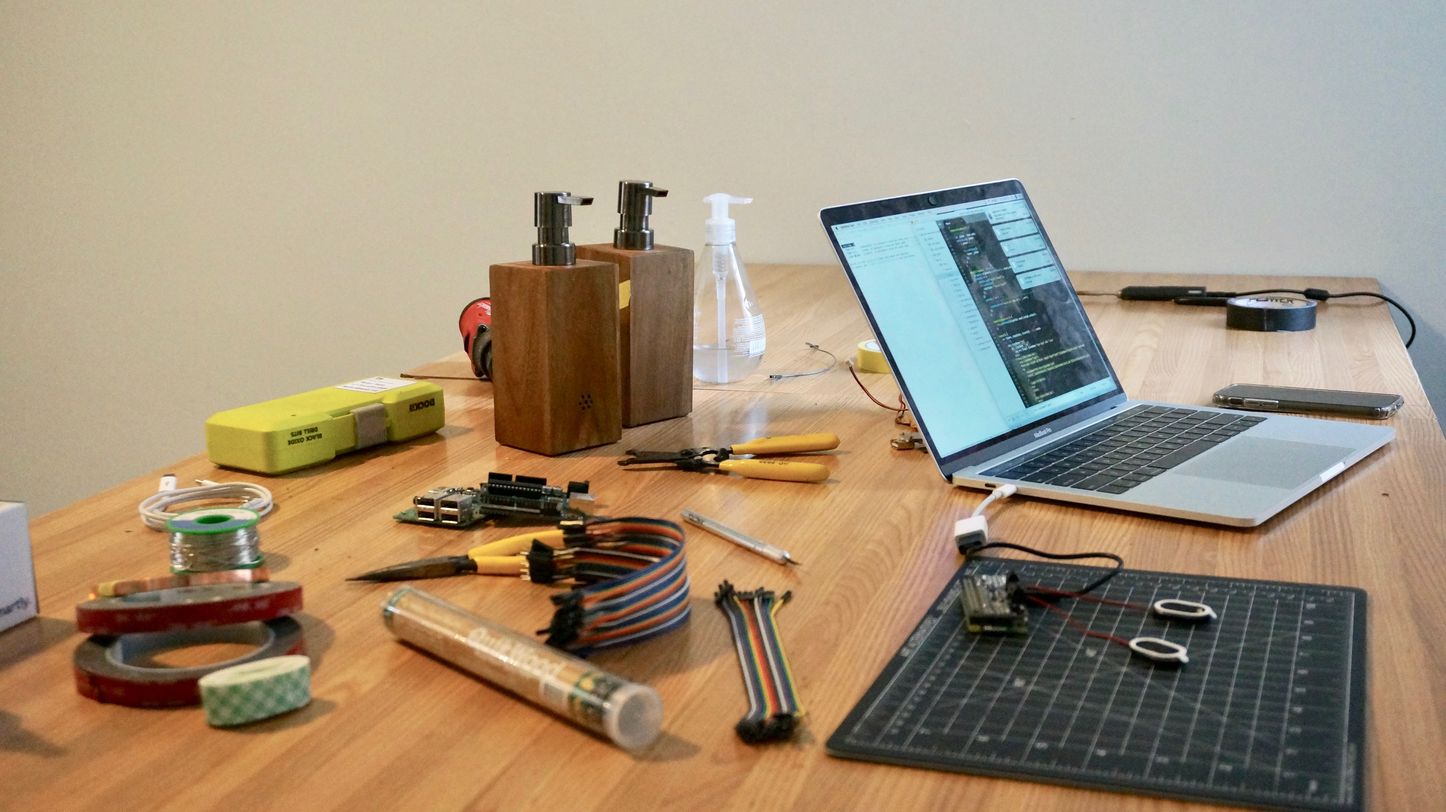
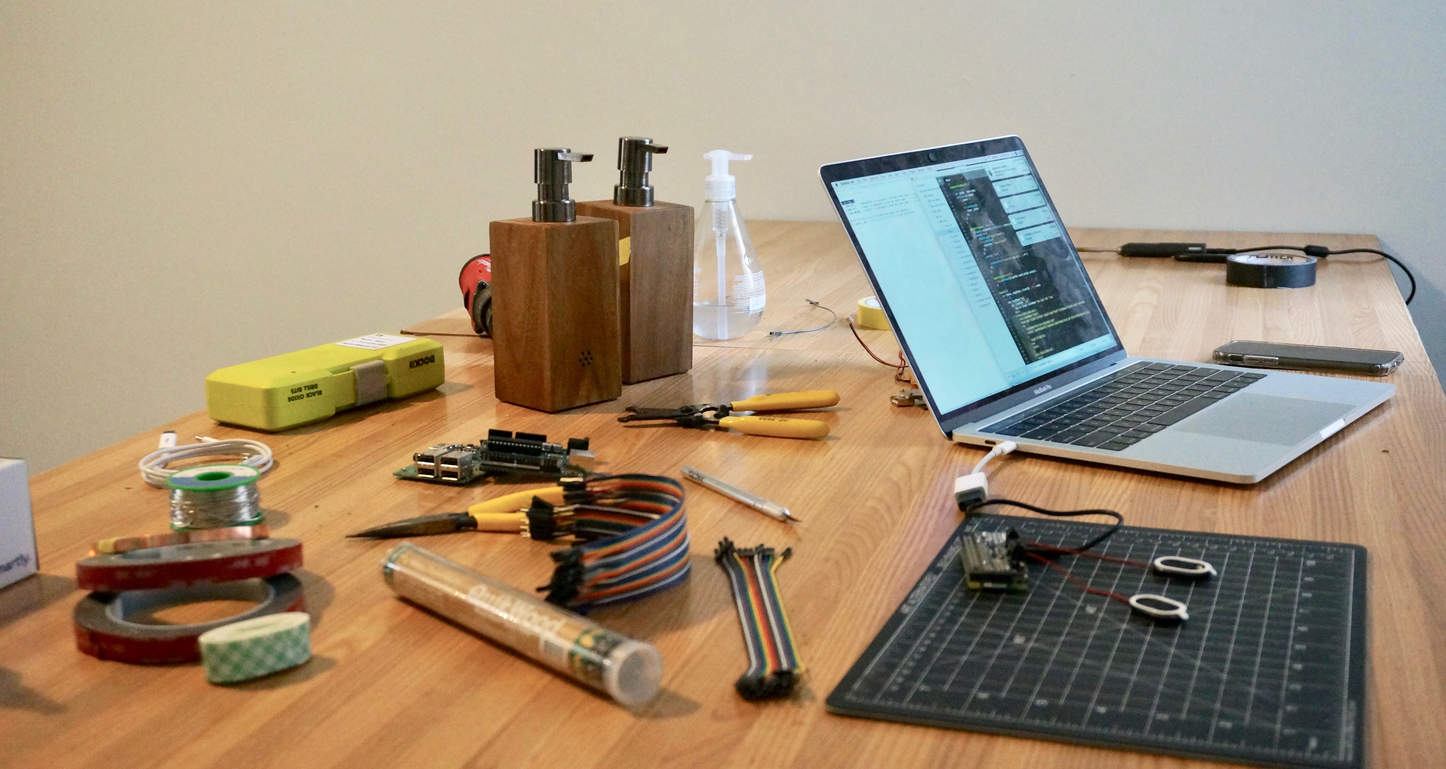
go

Changed region(s): [[0.0, 0.1551, 1.0, 0.9613], [0.0, 0.8683, 0.0311, 0.9303], [0.7164, 0.9613, 0.7476, 0.9923]]

diff --git a/README.md b/README.md
@@ -29,6 +29,8 @@ This repo contains all the code and documentation you'll need to get your Scrubb
 
 ## What You'll Need
 
+![Image of a workspace, including laptop soap dispensers, and assorted electrical part](https://raw.githubusercontent.com/Deeplocal/scrubber/master/img/workspace.jpeg?token=AF4LUDGXBEDYE6QSSV3YSMK6QFDAM)
+
 Before you get started, you should have some basic knowledge of command line linux and soldering. You'll also need the parts and tools listed below.
 
 ### Electrical Parts
